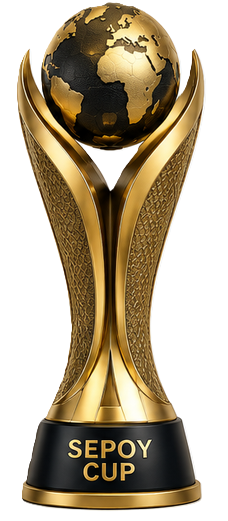
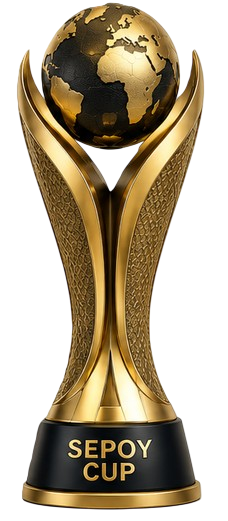
feat: new fonts, transparent trophy hero, win/loss row colours
Fonts:
- Chakra Petch 700 for hero title + subtitle (bigger, sporty impact)
- Roboto Mono 600 for Group Standings / Fixtures & Results / Knockout Bracket headings
- Added --font-hero and --font-mono CSS variables

Hero:
- Trophy cup now displayed as full transparent PNG foreground element, right-side
- Title left-aligned two-line layout, clamp(56px→100px), gold drop-shadow on trophy
- Float entrance animation slides in from right

Standings table row colouring:
- W > 0: neon green (#39ff7a) team name + stats
- W=0 L>0: red background tint + red font
- W=0 D>0 L=0: white (draw, neutral)
- P=0: muted (no games played)

diff --git a/src/components/groups.js b/src/components/groups.js
@@ -7,7 +7,7 @@ export function renderGroups(el, data) {
   el.innerHTML = `
     <div class="container">
       <div class="section-header">
-        <div class="heading" style="color:var(--color-gold-bright);">Group Standings</div>
+        <div class="heading" style="font-family:var(--font-mono);color:var(--color-gold-bright);">Group Standings</div>
         <div class="divider-star" style="color:var(--color-gold);justify-content:center;max-width:300px;margin:8px auto 0;">★ ★ ★</div>
       </div>
       <div class="standings-grid" style="display:grid;grid-template-columns:1fr 1fr;gap:24px;">
@@ -59,25 +59,42 @@ function buildGroupCard(group, data) {
 }
 
 function buildStandingRow(row, index, team) {
-  const isAdvance = index < 2
-  const color = isAdvance ? 'var(--color-gold-bright)' : 'var(--color-text-muted)'
-  const weight = isAdvance ? '700' : '400'
+  const hasWon  = row.W > 0
+  const hasLost = row.L > 0 && row.W === 0
+  const hasDraw = row.D > 0 && row.W === 0 && row.L === 0
+  const noGames = row.P === 0
 
-  const cells = [row.P, row.W, row.D, row.L, row.GF, row.GA, row.GD, row.Pts]
-    .map(v => `<td style="padding:10px 6px;text-align:center;color:${color};font-weight:${index === 0 ? '700' : '400'};border-bottom:1px solid rgba(212,165,116,0.1);">${v}</td>`)
-    .join('')
+  // Name / stats colour
+  const nameColor = hasWon  ? 'var(--color-win)'
+                  : hasLost ? '#ff6b6b'
+                  : hasDraw ? 'var(--color-text-light)'
+                  : 'var(--color-text-muted)'
 
-  const advBadge = isAdvance
-    ? `<span style="display:inline-block;width:4px;height:14px;background:var(--color-gold-bright);border-radius:2px;margin-right:6px;vertical-align:middle;"></span>`
+  const statColor = hasWon  ? 'var(--color-win)'
+                  : hasLost ? '#ff6b6b'
+                  : 'var(--color-text-light)'
+
+  // Row background tint for losers
+  const rowBg = hasLost ? 'rgba(180,30,30,0.15)' : 'transparent'
+
+  const advBadge = index < 2
+    ? `<span style="display:inline-block;width:4px;height:14px;background:${hasWon ? 'var(--color-win)' : 'var(--color-gold-bright)'};border-radius:2px;margin-right:6px;vertical-align:middle;"></span>`
     : `<span style="display:inline-block;width:4px;height:14px;margin-right:6px;"></span>`
 
+  const cells = [row.P, row.W, row.D, row.L, row.GF, row.GA, row.GD, row.Pts]
+    .map(v => `<td style="padding:10px 6px;text-align:center;color:${statColor};font-weight:${hasWon ? '700' : '400'};border-bottom:1px solid rgba(212,165,116,0.08);">${v}</td>`)
+    .join('')
+
   return `
-    <tr data-row="${index}" style="transition:background 0.2s;" onmouseover="this.style.background='rgba(26,58,106,0.6)'" onmouseout="this.style.background='transparent'">
-      <td style="padding:10px 10px;color:var(--color-text-muted);font-size:11px;width:20px;border-bottom:1px solid rgba(212,165,116,0.1);">${index + 1}</td>
-      <td style="padding:10px 10px;border-bottom:1px solid rgba(212,165,116,0.1);">
+    <tr data-row="${index}"
+        style="background:${rowBg};transition:background 0.2s;"
+        onmouseover="this.style.background='rgba(26,58,106,0.55)'"
+        onmouseout="this.style.background='${rowBg}'">
+      <td style="padding:10px 10px;color:var(--color-text-muted);font-size:11px;width:20px;border-bottom:1px solid rgba(212,165,116,0.08);">${index + 1}</td>
+      <td style="padding:10px 10px;border-bottom:1px solid rgba(212,165,116,0.08);">
         ${advBadge}
         <span style="margin-right:8px;">${flagIcon(row.teamId, team?.flag)}</span>
-        <span style="font-weight:${weight};color:${color};">${escapeHtml(team?.name ?? row.teamId)}</span>
+        <span style="font-weight:${hasWon ? '700' : '400'};color:${nameColor};">${escapeHtml(team?.name ?? row.teamId)}</span>
       </td>
       ${cells}
     </tr>

diff --git a/src/components/hero.js b/src/components/hero.js
@@ -13,24 +13,23 @@ export function renderHero(el, data) {
       <!-- Background glow -->
       <div style="position:absolute;inset:0;background:radial-gradient(ellipse at 50% 60%,rgba(240,192,96,0.10) 0%,transparent 65%);pointer-events:none;z-index:0;"></div>
 
-      <!-- Trophy — ghost behind text when no transparency; replace with transparent PNG for crisp foreground -->
+      <!-- Trophy — transparent PNG, foreground element right of text -->
       <img
-        class="hero__trophy-bg"
+        class="hero__trophy"
         src="assets/trophy-cup.png"
-        alt=""
-        aria-hidden="true"
-        style="position:absolute;bottom:0;left:50%;transform:translateX(-50%);height:88%;max-height:640px;object-fit:contain;opacity:0.55;pointer-events:none;z-index:0;mix-blend-mode:multiply;"
+        alt="The Sepoy Cup"
+        style="position:absolute;bottom:0;right:clamp(2%,8vw,12%);height:92%;max-height:660px;object-fit:contain;pointer-events:none;z-index:0;filter:drop-shadow(0 0 40px rgba(212,165,116,0.35)) drop-shadow(0 20px 60px rgba(0,0,0,0.6));"
       />
 
-      <!-- Foreground content -->
-      <div class="hero__content" style="position:relative;z-index:1;text-align:center;padding:clamp(60px,10vw,100px) 16px clamp(40px,6vw,80px);">
-        <div class="hero__title" style="font-family:var(--font-display);font-size:clamp(52px,10vw,88px);letter-spacing:3px;color:var(--color-gold-bright);text-transform:uppercase;line-height:1;">
-          Sepoy Cup 2026
+      <!-- Foreground content — left-aligned on wide screens, centred on mobile -->
+      <div class="hero__content" style="position:relative;z-index:1;text-align:left;padding:clamp(80px,12vw,120px) clamp(24px,8vw,100px);max-width:640px;">
+        <div class="hero__title" style="font-family:var(--font-hero);font-weight:700;font-size:clamp(56px,9vw,100px);letter-spacing:2px;color:var(--color-gold-bright);text-transform:uppercase;line-height:0.95;">
+          Sepoy<br>Cup 2026
         </div>
-        <div class="hero__subtitle" style="font-size:13px;letter-spacing:4px;color:var(--color-gold);text-transform:uppercase;margin-top:12px;">
+        <div class="hero__subtitle" style="font-family:var(--font-hero);font-weight:600;font-size:clamp(16px,2.4vw,22px);letter-spacing:5px;color:var(--color-gold);text-transform:uppercase;margin-top:18px;">
           FC24 · Family Cup
         </div>
-        <div style="margin-top:28px;">
+        <div style="margin-top:32px;">
           <div class="hero__status" style="display:inline-flex;align-items:center;gap:8px;padding:8px 20px;border:2px solid var(--color-gold);border-radius:20px;font-size:12px;font-weight:700;letter-spacing:2px;text-transform:uppercase;color:${stageColor};">
             <span style="width:6px;height:6px;border-radius:50%;background:${stageColor};${!complete ? 'animation:pulse 2s infinite;' : ''}display:inline-block;"></span>
             ${stageLabel}
@@ -41,22 +40,22 @@ export function renderHero(el, data) {
   `
 
   // GSAP entrance
-  const bg     = el.querySelector('.hero__trophy-bg')
+  const trophy = el.querySelector('.hero__trophy')
   const title  = el.querySelector('.hero__title')
   const sub    = el.querySelector('.hero__subtitle')
   const status = el.querySelector('.hero__status')
 
   gsap.set([title, sub, status], { opacity: 0 })
-  gsap.set(bg,     { opacity: 0, scale: 1.1 })
-  gsap.set(title,  { y: -30 })
-  gsap.set([sub, status], { y: 20 })
+  gsap.set(trophy, { opacity: 0, x: 60, scale: 0.92 })
+  gsap.set(title,  { y: -20 })
+  gsap.set([sub, status], { y: 16 })
 
   const tl = gsap.timeline({ delay: 0.15 })
-  tl.to(bg,     { opacity: 0.55, scale: 1, duration: 1.2, ease: 'power2.out' })
-    .to(title,  { opacity: 1, y: 0, duration: 0.6, ease: 'power3.out' }, '-=0.7')
-    .to(sub,    { opacity: 1, y: 0, duration: 0.5, ease: 'power2.out' }, '-=0.3')
-    .to(status, { opacity: 1, y: 0, duration: 0.4, ease: 'power2.out' }, '-=0.2')
+  tl.to(trophy, { opacity: 1, x: 0, scale: 1, duration: 1.1, ease: 'power3.out' })
+    .to(title,  { opacity: 1, y: 0, duration: 0.65, ease: 'power3.out' }, '-=0.7')
+    .to(sub,    { opacity: 1, y: 0, duration: 0.5,  ease: 'power2.out' }, '-=0.35')
+    .to(status, { opacity: 1, y: 0, duration: 0.4,  ease: 'power2.out' }, '-=0.25')
 
-  // Gentle breathe on the background trophy
-  gsap.to(bg, { y: -14, duration: 3.5, ease: 'sine.inOut', yoyo: true, repeat: -1, delay: 1.5 })
+  // Float
+  gsap.to(trophy, { y: -16, duration: 3.5, ease: 'sine.inOut', yoyo: true, repeat: -1, delay: 1.5 })
 }

diff --git a/src/style.css b/src/style.css
@@ -28,8 +28,12 @@
   --color-draw:        #8a7a3a;
   --color-danger:      #8a2a2a;
 
-  --font-display: 'Bebas Neue', 'Anton', sans-serif;
-  --font-body:    'Inter', system-ui, sans-serif;
+  --font-display:  'Bebas Neue', 'Anton', sans-serif;
+  --font-hero:     'Chakra Petch', 'Bebas Neue', sans-serif;
+  --font-body:     'Inter', system-ui, sans-serif;
+  --font-mono:     'Roboto Mono', monospace;
+  --color-win:     #39ff7a;
+  --color-loss-bg: rgba(180, 30, 30, 0.18);
 
   --border-gold:        2px solid var(--color-gold);
   --border-gold-bright: 2px solid var(--color-gold-bright);

diff --git a/admin.html b/admin.html
@@ -7,7 +7,7 @@
     <link rel="preconnect" href="https://fonts.googleapis.com" />
     <link rel="preconnect" href="https://fonts.gstatic.com" crossorigin />
     <link
-      href="https://fonts.googleapis.com/css2?family=Bebas+Neue&family=Inter:wght@400;600;700&display=swap"
+      href="https://fonts.googleapis.com/css2?family=Bebas+Neue&family=Chakra+Petch:wght@600;700&family=Inter:wght@400;600;700&family=Roboto+Mono:wght@600&display=swap"
       rel="stylesheet"
     />
     <link rel="stylesheet" href="https://cdn.jsdelivr.net/npm/flag-icons@7/css/flag-icons.min.css" />

diff --git a/index.html b/index.html
@@ -8,7 +8,7 @@
     <link rel="preconnect" href="https://fonts.googleapis.com" />
     <link rel="preconnect" href="https://fonts.gstatic.com" crossorigin />
     <link
-      href="https://fonts.googleapis.com/css2?family=Bebas+Neue&family=Inter:wght@400;600;700&display=swap"
+      href="https://fonts.googleapis.com/css2?family=Bebas+Neue&family=Chakra+Petch:wght@600;700&family=Inter:wght@400;600;700&family=Roboto+Mono:wght@600&display=swap"
       rel="stylesheet"
     />
     <link rel="stylesheet" href="https://cdn.jsdelivr.net/npm/flag-icons@7/css/flag-icons.min.css" />

diff --git a/src/components/bracket.js b/src/components/bracket.js
@@ -10,7 +10,7 @@ export function renderBracket(el, data) {
   el.innerHTML = `
     <div class="container">
       <div class="section-header">
-        <div class="heading" style="color:var(--color-gold-bright);">Knockout Bracket</div>
+        <div class="heading" style="font-family:var(--font-mono);color:var(--color-gold-bright);">Knockout Bracket</div>
         <div class="divider-star" style="color:var(--color-gold);justify-content:center;max-width:300px;margin:8px auto 0;">★ ★ ★</div>
       </div>
       <div class="bracket-wrapper" style="overflow-x:auto;padding-bottom:24px;">

diff --git a/src/components/fixtures.js b/src/components/fixtures.js
@@ -16,7 +16,7 @@ export function renderFixtures(el, data) {
   let html = `
     <div class="container">
       <div class="section-header">
-        <div class="heading" style="color:var(--theme-heading-on-bg);">Fixtures &amp; Results</div>
+        <div class="heading" style="font-family:var(--font-mono);color:var(--theme-heading-on-bg);">Fixtures &amp; Results</div>
         <div class="divider-star" style="color:var(--color-gold-dark);justify-content:center;max-width:300px;margin:8px auto 0;">★ ★ ★</div>
       </div>
   `